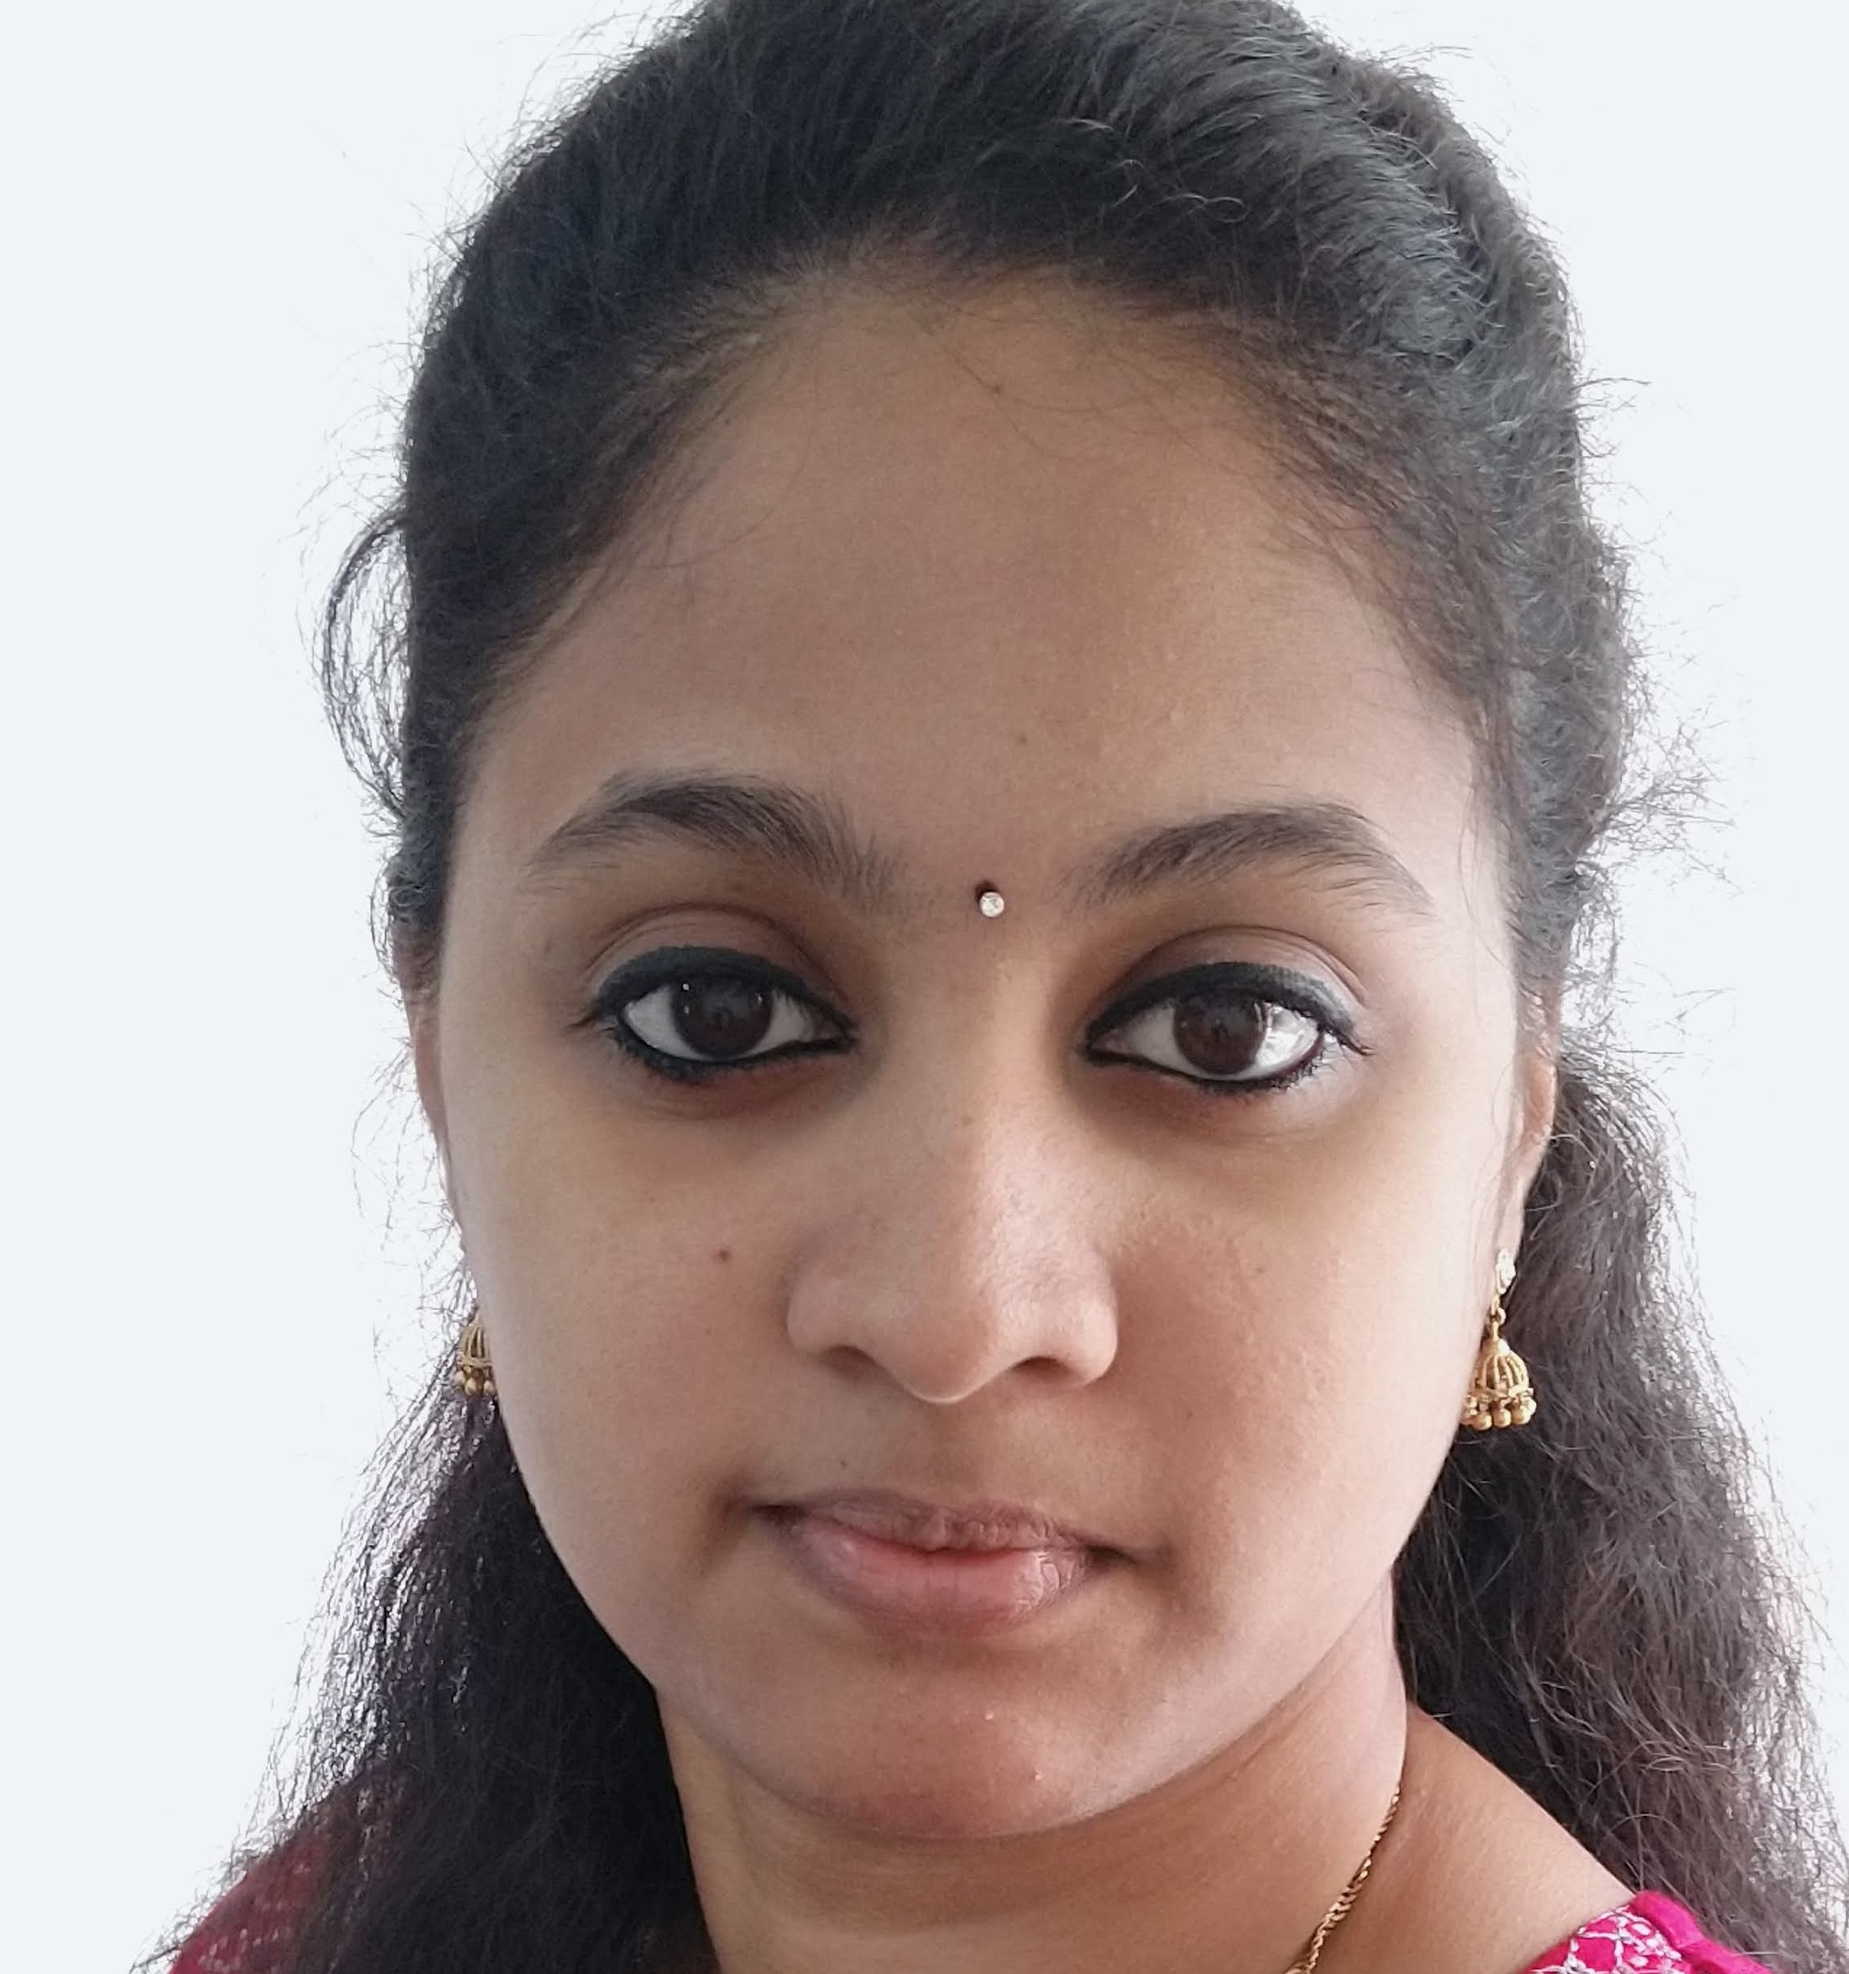
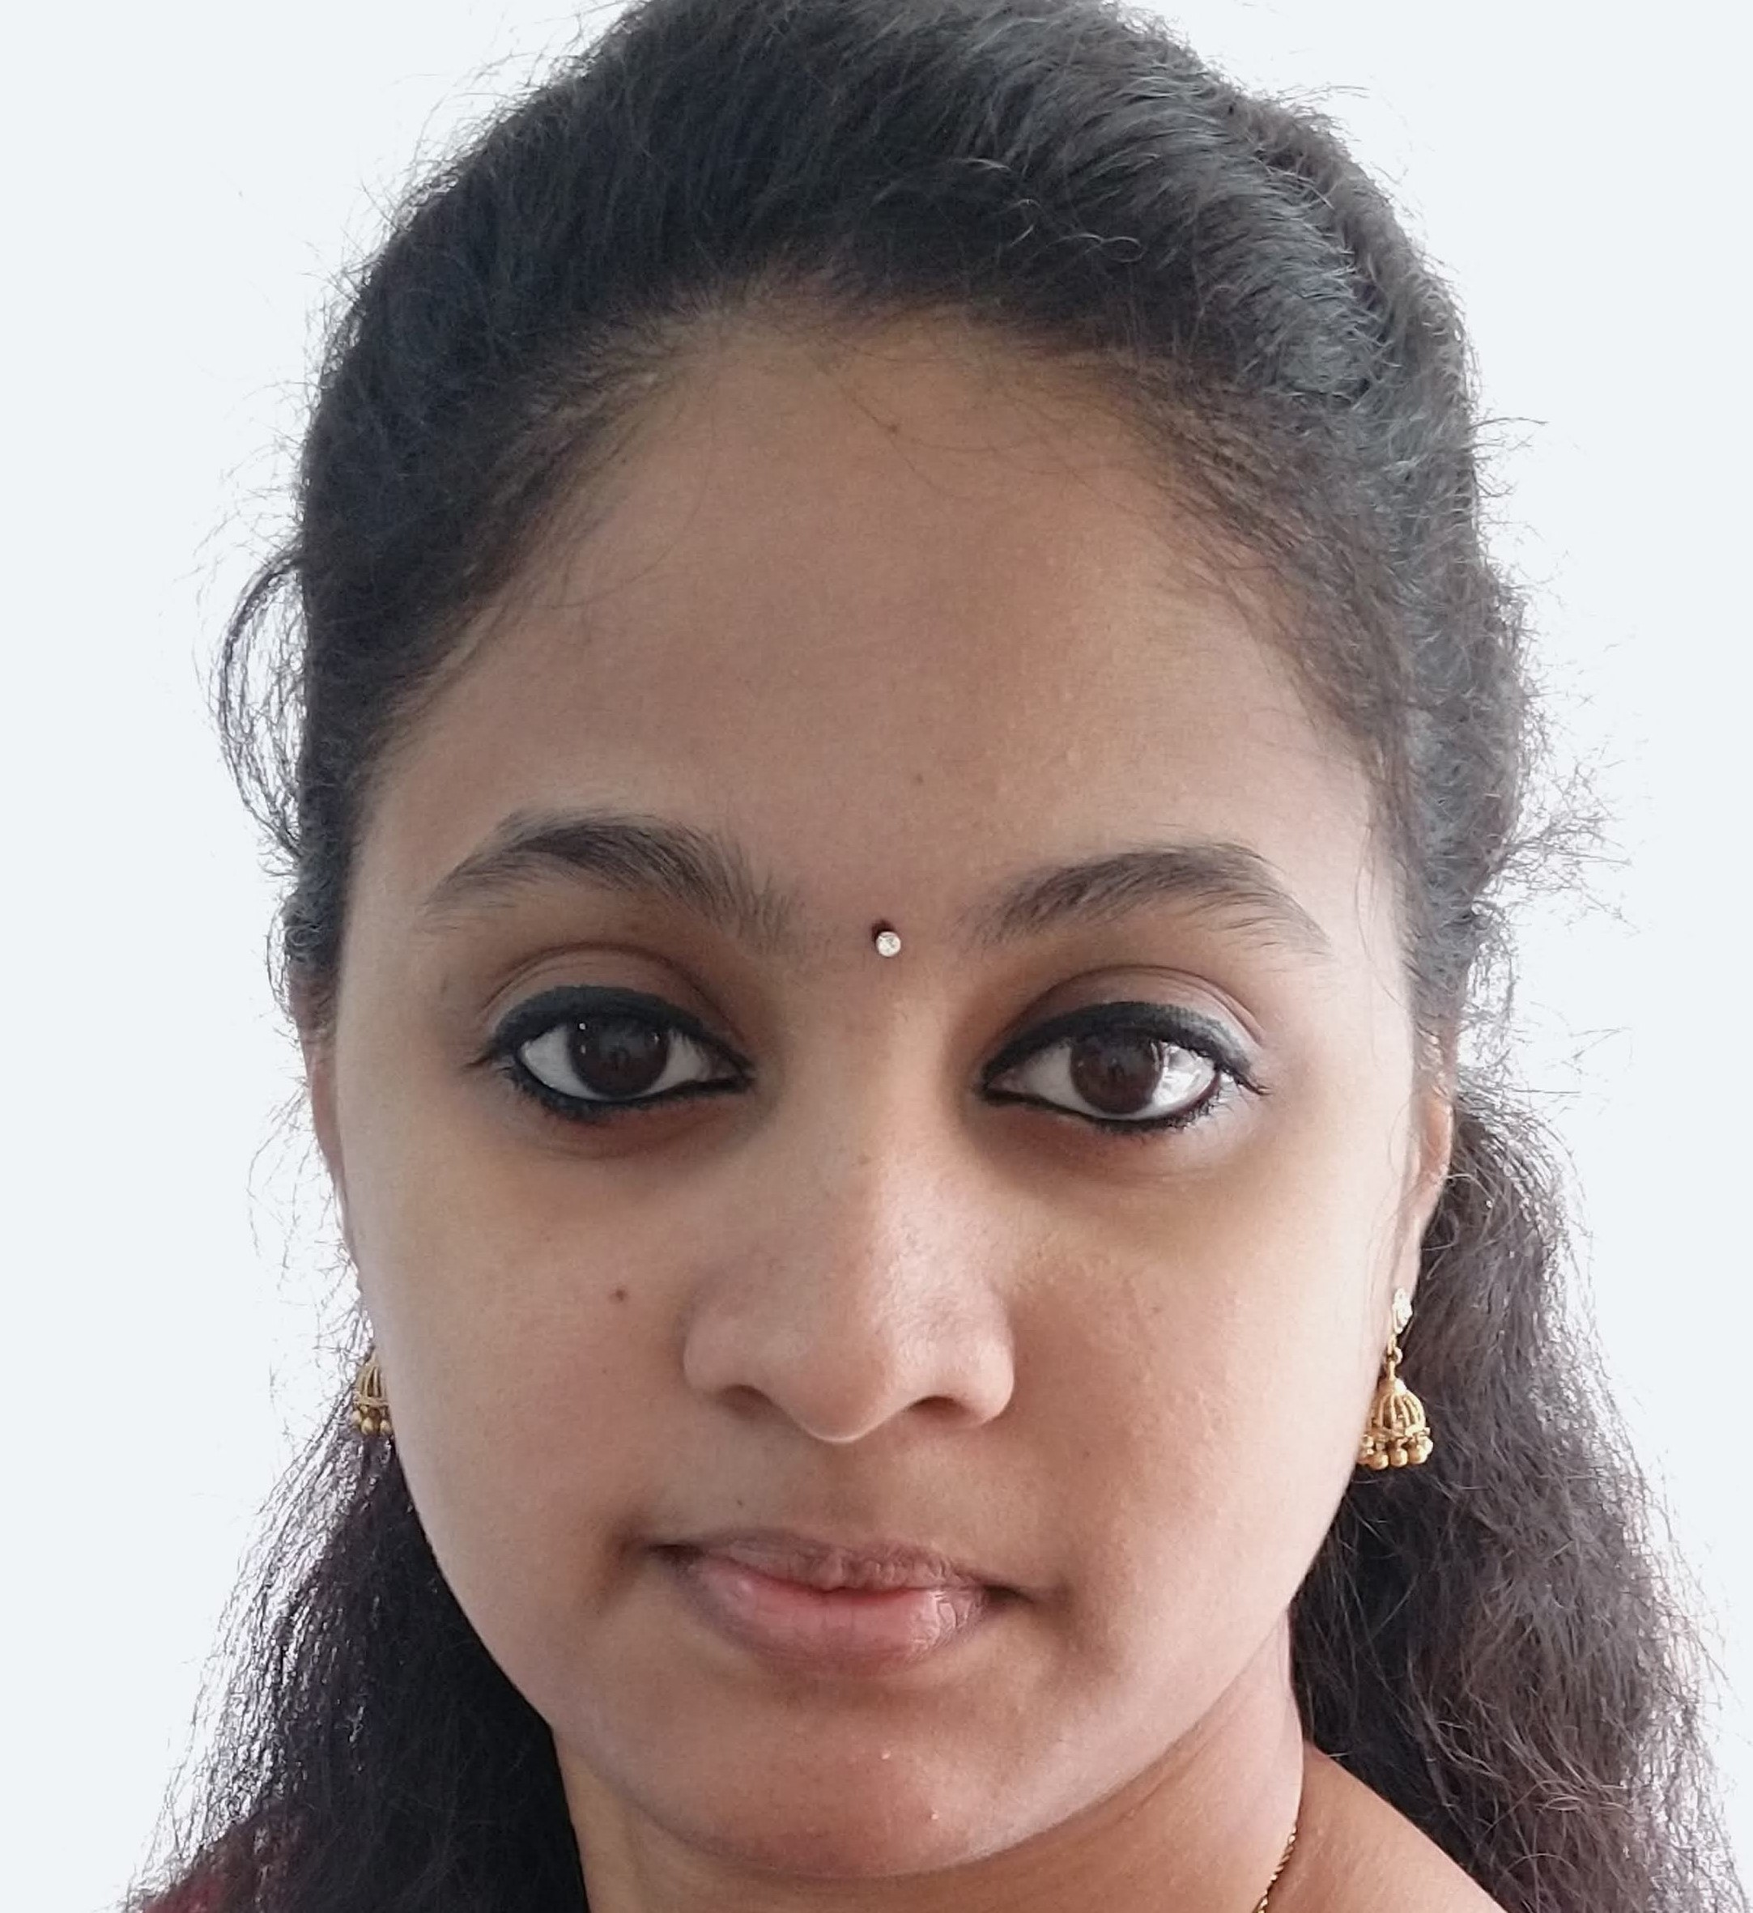
My Portfolio

diff --git a/index.html b/index.html
@@ -127,46 +127,47 @@
             <ul>
               <li>
                 <span>
-                  Designed and developed a real-time torque checking dashboard
-                  for an industrial environment, providing live monitoring of
-                  torque values and machine status.
+                  Designed and developed a real-time torque monitoring dashboard
+                  for industrial applications, providing live updates on torque
+                  values and machine status.
                 </span>
               </li>
               <li>
                 <span>
-                  Integrated MQTT protocol with Node.js backend to stream live
-                  sensor data securely and efficiently to the front-end.
+                  Integrated MQTT protocol with a Node.js backend to stream live
+                  sensor data securely and efficiently to the front end.
                 </span>
               </li>
               <li>
                 <span>
-                  Built the user interface using React JS for a dynamic,
-                  responsive, and component-based dashboard experience.
+                  Built a dynamic, responsive dashboard UI using React.js and
+                  component-based architecture.
                 </span>
               </li>
               <li>
                 <span>
-                  Applied HTML and CSS best practices to design a clean,
-                  user-friendly layout with clear data visualization and alerts.
+                  Applied best practices in HTML and CSS to craft a clean,
+                  user-friendly interface with clear data visualization and
+                  alerts.
                 </span>
               </li>
               <li>
                 <span>
-                  Implemented JavaScript date and time functions to display
-                  real-time inspection timestamps, helping operators verify
-                  required vs. measured torque instantly.
+                  Implemented JavaScript functions for real-time timestamps,
+                  enabling operators to verify torque measurements instantly.
                 </span>
               </li>
               <li>
                 <span>
-                  Ensured high performance, easy maintenance, and scalability by
-                  structuring the project with modern full-stack practices.
+                  Ensured high performance, maintainability, and scalability by
+                  following modern full-stack development principles.
                 </span>
               </li>
             </ul>
           </div>
         </div>
       </div>
+
       <!--Education-->
       <div class="experience">
         <h2>Education</h2>
@@ -179,7 +180,7 @@
           <h4 class="time">CGPA: 8.84</h4>
 
           <h4 class="company">
-            Bachelor of Computer Applications (BCA) - 2021 ,Vivekanandha College
+            Bachelor of Computer Applications (BCA) - 2019 ,Vivekanandha College
             for Women, Tiruchengode
           </h4>
           <h4 class="time">CGPA: 7.5</h4>
@@ -206,7 +207,7 @@
                 <span>
                   The site includes a Home page with a restaurant overview , an
                   About page detailing its quality, dining experience, and
-                  services, dedicated dish pages like Butter Chicken and Briyani
+                  services, dedicated dish pages like Butter Chicken and Biryani
                   with ingredient lists and appetizing images, and a Contact
                   page featuring a feedback form and essential contact details.
                 </span>

diff --git a/assets/css/main.min.css b/assets/css/main.min.css
@@ -240,7 +240,7 @@ h2 {
 }
 @media screen and (max-width: 1024px) {
   .main-container .intro .photo {
-    flex: 0 0 20%;
+    flex: 0 0 30%;
   }
   .main-container .intro .photo img {
     align-self: center;
